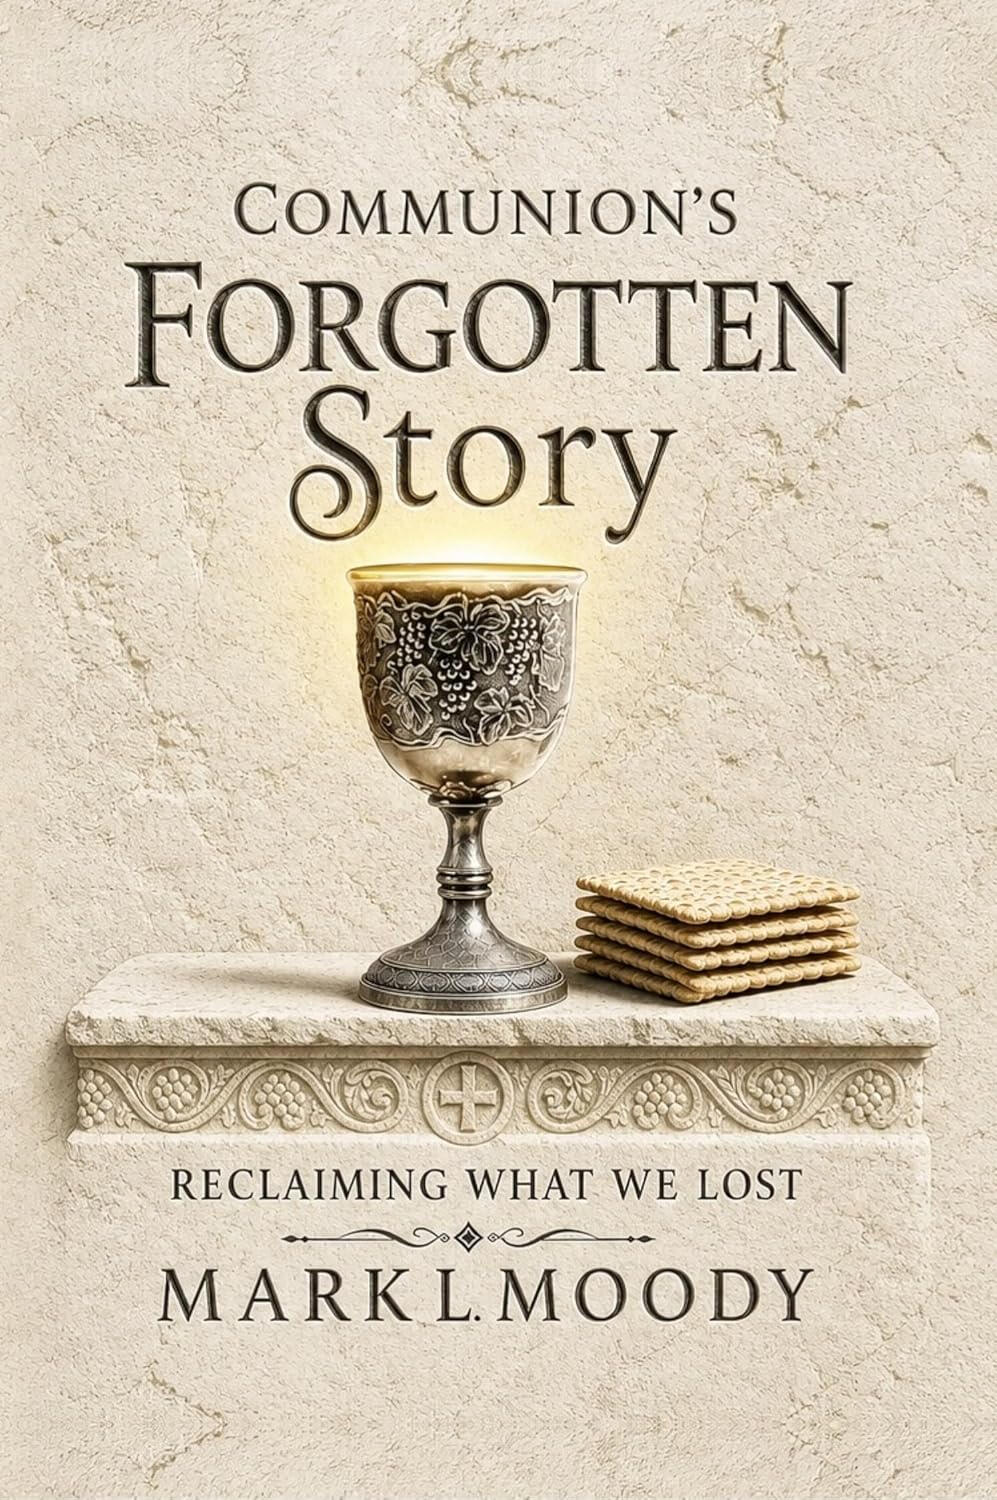
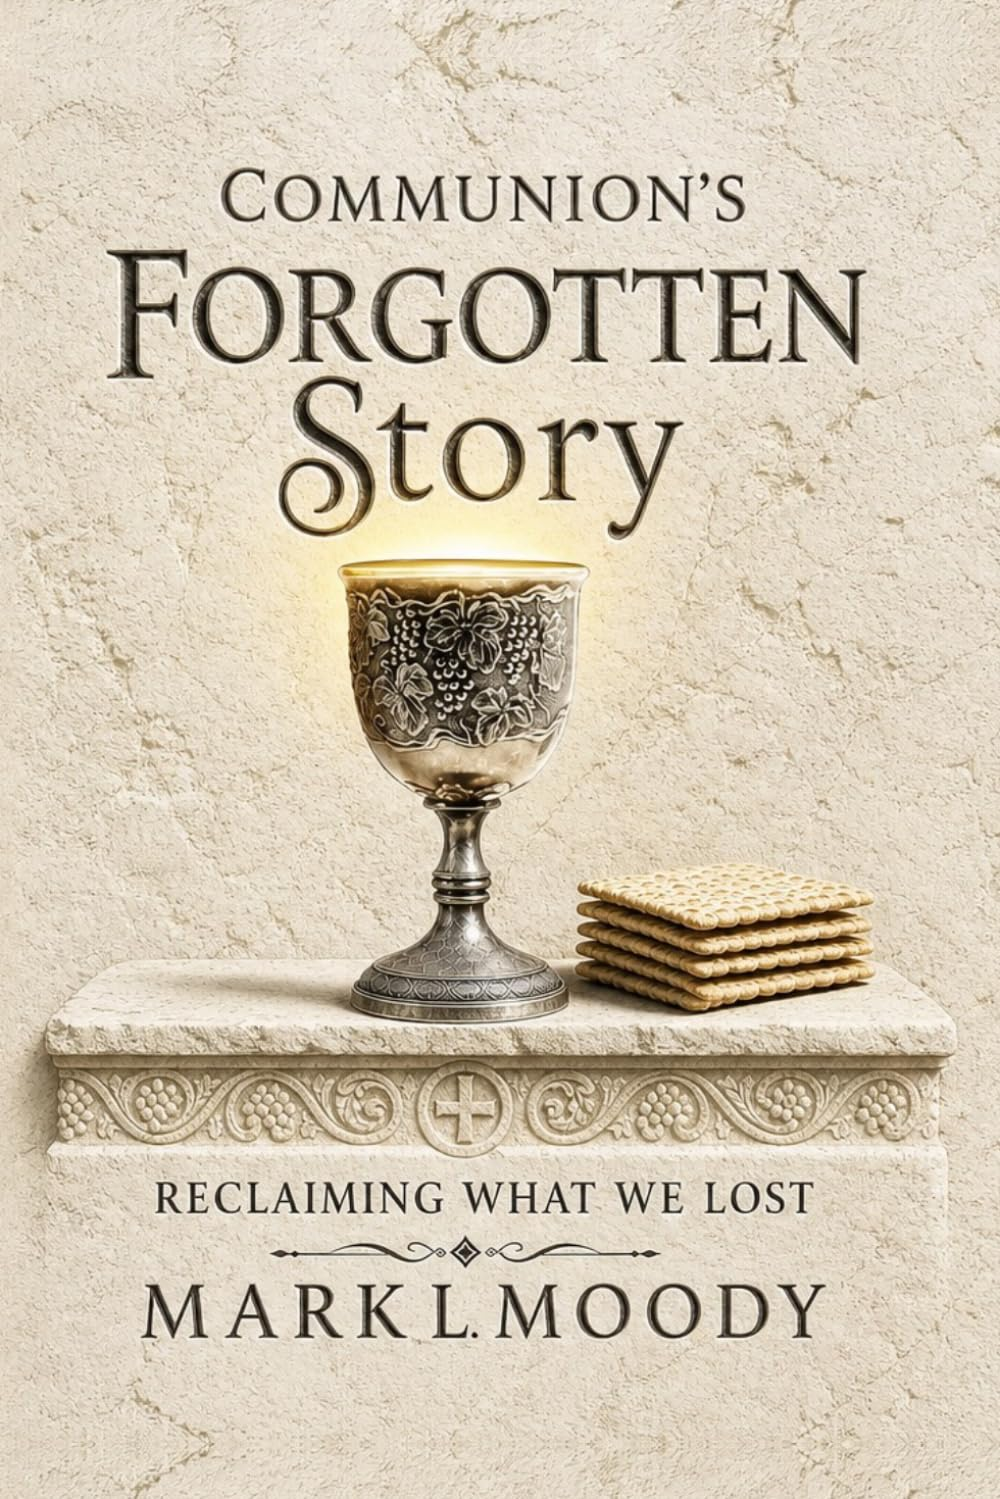
Contain page on wide screens; real book copy; hi-res covers
- Wrap the site in a centred .page sheet (max 1280px) on a soft desk
  ground, so it no longer spans the full monitor and the Mission /
  Contact bands stop at the sheet edge
- Fix the "Give directly to the Ness family" button, which rendered
  cream-on-cream (invisible) until hover
- Replace all four book write-ups with the Amazon / back-cover copy
- Swap in the full-resolution front covers

diff --git a/index.html b/index.html
@@ -15,6 +15,8 @@
 </head>
 <body>
 
+<div class="page">
+
 <div class="spine" aria-hidden="true"></div>
 
 <header class="masthead">
@@ -59,8 +61,10 @@
         <p class="book-label">Supports the Kenya mission</p>
         <h3>Communion's Forgotten Story</h3>
         <p class="book-sub">Reclaiming What We Lost</p>
-        <p>We take the bread. We drink the cup. We remember Jesus. But for many of us, that's where the understanding stops. This book traces the Lord's Supper from its roots in Eden, through the Passover and the upper room, through the early church and into your hands today — written for Christians of every tradition, whether you call it Communion, the Eucharist, or the Lord's Supper.</p>
-        <p class="book-note">Every copy purchased supports the mission work of the Ness family in Kenya. <a href="#mission">Read their story below.</a></p>
+        <p>We take the bread. We drink the cup. We remember Jesus. But for many of us, that's where the understanding stops. What if there's far more to Communion than we ever realized?</p>
+        <p><em>Communion's Forgotten Story</em> traces the Lord's Supper from its roots in Eden, through the Passover and the upper room, through the early church and into your hands today. Along the way, you'll discover that when Jesus broke the bread and lifted the cup, He wasn't inventing a new ritual — He was fulfilling a story woven through Scripture from the very beginning. A story of promise. Of deliverance. Of sacrifice. Of hope.</p>
+        <p>Written for Christians of every tradition — whether you call it Communion, the Eucharist, or the Lord's Supper — this book will change the way you come to the table. Not with less reverence, but with far greater understanding.</p>
+        <p class="book-note">Every copy purchased supports the missionary work of Dr. Matthew and Amy-Lynn Ness in Kijabe, Kenya. <a href="#mission">Read their story below.</a></p>
         <div class="links">
           <a class="btn btn-solid" href="https://link.amazon/B0ciSrOaV">Paperback</a>
           <a class="btn" href="https://link.amazon/B04iw9IRl">Hardcover</a>
@@ -75,8 +79,10 @@
       </div>
       <div class="book-body">
         <p class="book-label book-label-red">Free for groups</p>
-        <h3 class="h3-small">A twelve-session small-group study guide</h3>
-        <p>Walk through <em>Communion's Forgotten Story</em> session by session, with discussion questions, ice breakers, and a closing response for each gathering. Free to download for Sunday school classes, home groups, or personal study — or buy the printed companion on Amazon.</p>
+        <h3 class="h3-small">Communion's Forgotten Story Study Guide</h3>
+        <p>A twelve-session companion built to help small groups explore the Lord's Supper together — from its roots in Eden through the Passover, the upper room, and into the life of the early church.</p>
+        <p>Written by a pastor with forty-five years of cross-denominational ministry, it doesn't advocate for any one tradition or take sides on the debates that divide — ordinance or sacrament, symbolic or real presence, open table or closed. It simply invites every believer to recover the ancient story behind the meal they already share.</p>
+        <p>Each session runs about an hour: an icebreaker, Scripture to explore, discussion questions, personal reflection, and a closing prayer. No theological background required — just open Bibles and honest conversation.</p>
         <div class="links">
           <a class="btn btn-red" href="https://drive.google.com/file/d/1Ge6kl348dqpOPxWMjKifScObTWFVw9bk/view">Download the free guide (PDF)</a>
           <a class="btn btn-quiet" href="https://link.amazon/B0fivDLKu">Printed companion on Amazon</a>
@@ -92,7 +98,9 @@
         <p class="book-label">Newest</p>
         <h3>Sincerely Mistaken</h3>
         <p class="book-sub">The Sabbath-Sunday Question</p>
-        <p>The same rigorous research as <em>The Sabbath Exposed</em>, told this time through the lens of personal experience. Written in a conversational voice at a Grade 7–9 reading level, it makes the same careful investigation accessible to every reader.</p>
+        <p>For most Christians, Sunday worship has never been a question worth asking. It was simply the way things were — received through tradition, affirmed by trusted teachers, rarely examined closely. Until one pastor, after forty-five years of ministry, finally sat down with Scripture intending to defend what he had always believed. What he discovered surprised him.</p>
+        <p><em>Sincerely Mistaken</em> traces one man's honest investigation into one of Christianity's longest-standing assumptions — that the Sabbath was transferred from the seventh day to Sunday. Moving carefully through Scripture and two thousand years of church history, it asks a question most believers have never seriously considered: where, exactly, does Scripture authorize the change?</p>
+        <p>Written with humility and deep respect for sincere Christians on every side, this is not a book written to win an argument. It is an invitation to examine familiar assumptions honestly and consider the evidence for yourself. The door is open. Come and see.</p>
         <div class="links">
           <a class="btn btn-solid" href="https://link.amazon/B0cTA3N13">Paperback</a>
           <a class="btn" href="https://link.amazon/B08No0Gq5">Hardcover</a>
@@ -110,7 +118,9 @@
         <p class="book-label">The full investigation</p>
         <h3>The Sabbath Exposed</h3>
         <p class="book-sub">Unexpected Discoveries, Compelling Evidence</p>
-        <p>Does the Fourth Commandment apply to new covenant believers? When challenged to defend the biblical basis of his chosen day of worship, Mark launched a wide-ranging, Scripture-rich investigation spanning Genesis to Revelation. The result is an invitation to step into that same journey through Scripture, history, and tradition — and decide for yourself, one revelation at a time.</p>
+        <p>Is the Sabbath still for today? What if everything you thought you knew about the weekly day of worship deserved a second look?</p>
+        <p>When challenged to defend the biblical basis of his chosen day of worship, Rev. Mark Moody launched a wide-ranging, Scripture-rich investigation spanning Genesis to Revelation. <em>The Sabbath Exposed</em> uncovers his unexpected discoveries and compelling evidence, inviting a fresh look at long-standing assumptions.</p>
+        <p>Step into your own journey through Scripture, history, and tradition — and decide for yourself, one revelation at a time.</p>
         <div class="links">
           <a class="btn btn-solid" href="https://link.amazon/B04mpbbe3">Paperback</a>
           <a class="btn" href="https://link.amazon/B09bVd7FQ">Hardcover</a>
@@ -216,6 +226,8 @@
   <span>© 2026 Mark L. Moody</span>
   <a href="https://link.amazon/B0d7OqgeW">Books on Amazon</a>
 </footer>
+
+</div><!-- .page -->
 
 </body>
 </html>

diff --git a/styles.css b/styles.css
@@ -5,6 +5,8 @@
    ============================================================ */
 
 :root {
+  --desk:       #E4DECF;   /* the ground the page sheet sits on (wide screens) */
+  --sheet-edge: #D8D1BE;   /* hairline where the sheet meets the desk */
   --paper:      #F4F2ED;   /* page ground */
   --raised:     #FBFAF7;   /* alternating section ground */
   --ink:        #1A1614;   /* headings, buttons, hard rules */
@@ -31,13 +33,27 @@ html { scroll-behavior: smooth; }
 
 body {
   margin: 0;
-  background: var(--paper);
+  background: var(--desk);
   color: var(--ink);
   font-family: var(--sans);
   font-size: 17px;
   line-height: 1.68;
   -webkit-font-smoothing: antialiased;
   text-wrap: pretty;
+}
+
+/* The page sits as a centred sheet on the desk, with room to breathe
+   on wide monitors. Full-bleed bands (The Mission, Contact) stop at its edge. */
+.page {
+  position: relative;
+  max-width: var(--page);
+  margin: 0 auto;
+  min-height: 100vh;
+  background: var(--paper);
+  border-left: 1px solid var(--sheet-edge);
+  border-right: 1px solid var(--sheet-edge);
+  box-shadow: 0 0 60px rgba(26, 22, 20, .07);
+  overflow: hidden;
 }
 
 /* The one motif: a thin rule down the left margin, like a book's spine. */
@@ -239,14 +255,14 @@ figcaption {
 .mission figcaption { color: rgba(244,242,237,.6); }
 .mission cite { color: rgba(244,242,237,.66); }
 .mission figcaption a { color: var(--reverse); border-bottom-color: rgba(244,242,237,.45); }
-.mission .btn-red {                       /* primary reverses out */
-  background: var(--reverse); border-color: var(--reverse); color: var(--oxblood);
-}
-.mission .btn-red:hover { background: var(--ink); border-color: var(--ink); color: var(--reverse); }
-.mission .btn {                           /* outline reverses out */
-  border-color: rgba(244,242,237,.5); color: var(--reverse);
+.mission .btn {                           /* secondary: outline reverses out */
+  border-color: rgba(244,242,237,.5); color: var(--reverse); background: none;
 }
 .mission .btn:hover { border-color: var(--reverse); background: rgba(244,242,237,.12); color: var(--reverse); }
+.mission .btn.btn-red {                   /* primary: solid cream, oxblood label */
+  background: var(--reverse); border-color: var(--reverse); color: var(--oxblood);
+}
+.mission .btn.btn-red:hover { background: var(--ink); border-color: var(--ink); color: var(--reverse); }
 .mission .inner {
   max-width: var(--page); margin: 0 auto;
   padding: 72px var(--margin-r) 76px var(--margin-l);
@@ -380,7 +396,8 @@ figcaption {
 @media (max-width: 900px) {
   :root { --margin-l: 40px; --margin-r: 24px; --spine-x: 20px; }
 
-  body { font-size: 16px; }
+  body { font-size: 16px; background: var(--paper); }
+  .page { border: 0; box-shadow: none; min-height: 0; }
   .spine::after { top: 74px; height: 96px; }
 
   .masthead { flex-direction: column; align-items: flex-start; gap: 0; padding-bottom: 0; border-bottom: 0; }
